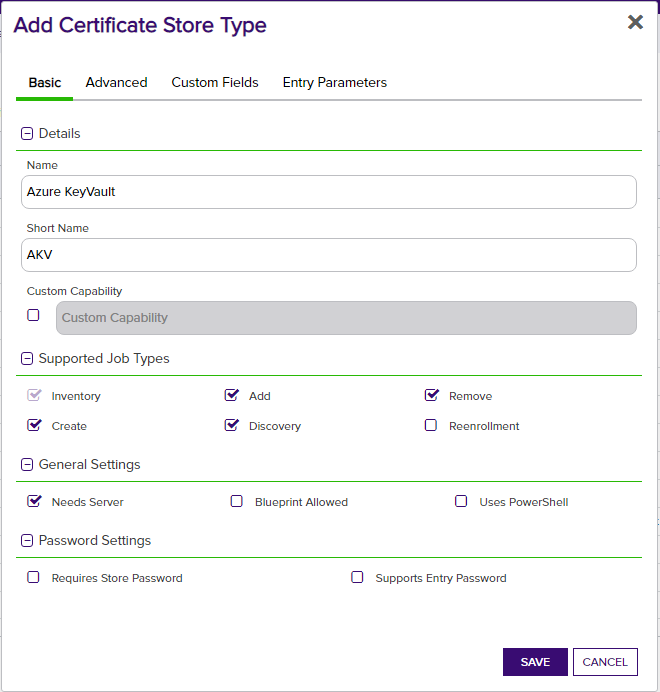
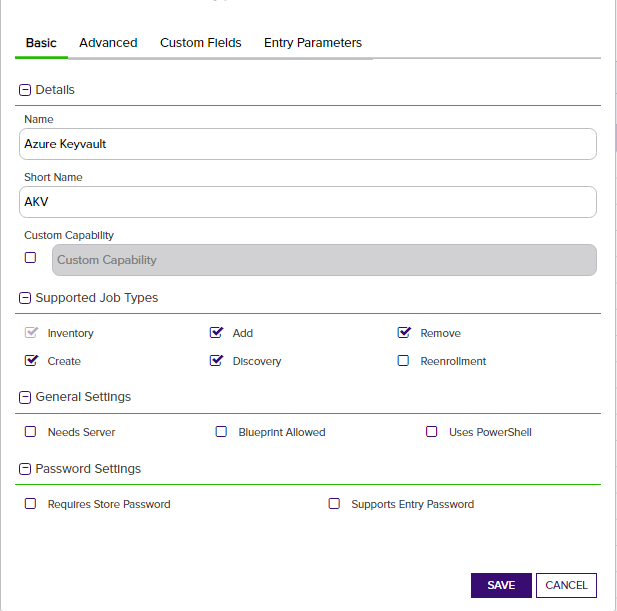
Updating documentation and cert store properties.

Changed region(s): [[0.0, 0.0, 1.0, 1.0], [0.6159, 0.5286, 0.8006, 0.6219], [0.3387, 0.5286, 0.4619, 0.6219]]

diff --git a/AzureKeyVault/AzureClient.cs b/AzureKeyVault/AzureClient.cs
@@ -57,15 +57,15 @@ namespace Keyfactor.Extensions.Orchestrator.AzureKeyVault
                 {
                     var credentialOptions = new DefaultAzureCredentialOptions();
 
-                    if (this.VaultProperties.UserAssignedManagedIdentity) // are they using a user assigned identity instead of a system assigned one (default)?
+                    if (!string.IsNullOrEmpty(this.VaultProperties.ClientId)) // are they using a user assigned identity instead of a system assigned one (default)?
                     {
-                        credentialOptions.ManagedIdentityClientId = VaultProperties.ApplicationId;
+                        credentialOptions.ManagedIdentityClientId = VaultProperties.ClientId;
                     }
                     cred = new DefaultAzureCredential(credentialOptions);
                 }
                 else
                 {
-                    cred = new ClientSecretCredential(VaultProperties.TenantId, VaultProperties.ApplicationId, VaultProperties.ClientSecret);
+                    cred = new ClientSecretCredential(VaultProperties.TenantId, VaultProperties.ClientId, VaultProperties.ClientSecret);
                 }
 
                 _certClient = new CertificateClient(new Uri(VaultProperties.VaultURL), credential: cred);
@@ -95,15 +95,15 @@ namespace Keyfactor.Extensions.Orchestrator.AzureKeyVault
                     var credentialOptions = new DefaultAzureCredentialOptions();
 
 
-                    if (!string.IsNullOrEmpty(this.VaultProperties.ApplicationId)) // they have selected a managed identity and provided a client ID, so it is a user assigned identity
+                    if (!string.IsNullOrEmpty(this.VaultProperties.ClientId)) // they have selected a managed identity and provided a client ID, so it is a user assigned identity
                     {
-                        credentialOptions.ManagedIdentityClientId = VaultProperties.ApplicationId;
+                        credentialOptions.ManagedIdentityClientId = VaultProperties.ClientId;
                     }
                     credential = new DefaultAzureCredential(credentialOptions);
                 }
                 else
                 {
-                    credential = new ClientSecretCredential(VaultProperties.TenantId, VaultProperties.ApplicationId, VaultProperties.ClientSecret);
+                    credential = new ClientSecretCredential(VaultProperties.TenantId, VaultProperties.ClientId, VaultProperties.ClientSecret);
                 }
 
                 _mgmtClient = new ArmClient(credential);
@@ -230,28 +230,28 @@ namespace Keyfactor.Extensions.Orchestrator.AzureKeyVault
 
         //    var vaults = KvManagementClient.Vaults;
 
-            var permissions = new Permissions
-            {
-                Certificates = new List<string>() {
-                    CertificatePermissions.All
-                }
-            };
-            var accessPolicyEntry = new AccessPolicyEntry(new Guid(VaultProperties.TenantId), VaultProperties.ObjectId, permissions);
-            var accessPolicyProperties = new VaultAccessPolicyProperties(new[] { accessPolicyEntry });
-            var accessPolicyParameters = new VaultAccessPolicyParameters(accessPolicyProperties);
-            try
-            {
-                await vaults.UpdateAccessPolicyAsync(VaultProperties.ResourceGroupName, VaultProperties.VaultName, AccessPolicyUpdateKind.Replace, accessPolicyParameters);
-                //force refresh of clients to get a new access token to refresh authority.
-                _mgmtClient = null;
-                _certClient = null;
-            }
-            catch (Exception ex)
-            {
-                logger.LogError("Unable to set access policy on Vault", ex);
-                throw;
-            }
-        }
+        //    var permissions = new Permissions
+        //    {
+        //        Certificates = new List<string>() {
+        //            CertificatePermissions.All
+        //        }
+        //    };
+        //    var accessPolicyEntry = new AccessPolicyEntry(new Guid(VaultProperties.TenantId), VaultProperties.ObjectId, permissions);
+        //    var accessPolicyProperties = new VaultAccessPolicyProperties(new[] { accessPolicyEntry });
+        //    var accessPolicyParameters = new VaultAccessPolicyParameters(accessPolicyProperties);
+        //    try
+        //    {
+        //        await vaults.UpdateAccessPolicyAsync(VaultProperties.ResourceGroupName, VaultProperties.VaultName, AccessPolicyUpdateKind.Replace, accessPolicyParameters);
+        //        //force refresh of clients to get a new access token to refresh authority.
+        //        _mgmtClient = null;
+        //        _certClient = null;
+        //    }
+        //    catch (Exception ex)
+        //    {
+        //        logger.LogError("Unable to set access policy on Vault", ex);
+        //        throw;
+        //    }
+        //}
     }
 }
 

diff --git a/AzureKeyVault/AkvProperties.cs b/AzureKeyVault/AkvProperties.cs
@@ -3,7 +3,7 @@
     public class AkvProperties
     {
         public string SubscriptionId { get; set; }
-        public string ApplicationId { get; set; } // (a.k.a. ClientId)
+        public string ClientId { get; set; } // (a.k.a. ClientId)
         public string ClientSecret { get; set; }
         public string TenantId { get; set; }
         public string ResourceGroupName { get; set; }
@@ -11,7 +11,13 @@
         public string StorePath { get; set; }
         public string VaultRegion { get; set; }
         public bool PremiumSKU { get; set; }
-        public bool UseAzureManagedIdentity { get; set; }
+        internal protected bool UseAzureManagedIdentity
+        {
+            get
+            {
+                return string.IsNullOrEmpty(ClientSecret); //if they don't provide a client secret, assume they are using Azure Managed Identities
+            }
+        }
 
         internal protected string VaultURL => $"https://{VaultName}.vault.azure.net/";
     }

diff --git a/AzureKeyVault/Jobs/AzureKeyVaultJob.cs b/AzureKeyVault/Jobs/AzureKeyVaultJob.cs
@@ -31,7 +31,7 @@ namespace Keyfactor.Extensions.Orchestrator.AzureKeyVault
                 VaultProperties.SubscriptionId = config.ClientMachine;
 
             VaultProperties.TenantId = config.ServerUsername.Split()[0]; //username should contain "<tenantId guid> <app id guid> <object Id>"            
-            VaultProperties.ApplicationId = config.ServerUsername.Split()[1];
+            VaultProperties.ClientId = config.ServerUsername.Split()[1];
             //VaultProperties.ObjectId = config.ServerUsername.Split()[2];
             VaultProperties.ClientSecret = config.ServerPassword;
 

diff --git a/readme_source.md b/readme_source.md
@@ -120,9 +120,9 @@ This is required to create an App Registration in Azure Active Directory.
 
      ![App registration object Id](/Images/objectId.png)
 
-1) Copy the _Application (client) ID_, _Object ID_.
+1) Copy the _Application (client) ID_
 
-1) Now we have a App registration and values for  _Directory (tenant) ID_, _Application (client) ID_ and _Object ID_.  These will be used by the integration for authentication to Azure.
+1) Now we have a App registration and values for  _Directory (tenant) ID_, _Application (client) ID_.  These will be used by the integration for authentication to Azure.
 
 #### Assign Permissions
 
@@ -224,7 +224,6 @@ Now we have our App registration created in Azure, and we have the following val
 
 - _TenantId_
 - _ApplicationId_
-- _ObjectId_
 - _ClientSecret_
 
 We will store these values securely in Keyfactor in subsequent steps.
@@ -238,10 +237,15 @@ The two types of managed identities available in Azure are _System_ assigned, an
 - System assigned managed identities are bound to the specific resource and not reassignable.  They are bound to the resource and share the same lifecycle.  
 - User assigned managed identities exist as a standalone entity, independent of a resource, and can therefore be assigned to multiple Azure resources.
 
+Read more about Azure Managed Identities [here](https://learn.microsoft.com/en-us/azure/active-directory/managed-identities-azure-resources/overview).
+
+Detailed steps for creating a managed identity and assigning permissions can be found [here](https://learn.microsoft.com/en-us/azure/active-directory/managed-identities-azure-resources/how-manage-user-assigned-managed-identities?pivots=identity-mi-methods-azp).
+
+Once the User Assigned managed identity has been created, you will need only to enter the Client Id into the Application Id field on the certificate store definition (the Client Secret can be left blank).
 
 #### Authentication via System Assigned Managed Identity
 
-In order to use a _System_ assigned managed identity, the setup steps are the same as for the user assigned managed identity, except that the ApplicationId can be left blank.
+In order to use a _System_ assigned managed identity, the setup steps are the same as for the user assigned managed identity, except that both the  ApplicationId field should also be left blank.
 
 ### Create the Store Type in Keyfactor
 
@@ -265,15 +269,32 @@ Now we can navigate to the Keyfactor platform and create the store type for Azur
 
 1) Navigate to the _Advanced_ tab and set the following values:
      - Store Path Type: **Freeform**
-     - Supports Custom Alias: **Required**
-     - Private Key Handling: **Required**
+     - Supports Custom Alias: **Optional**
+     - Private Key Handling: **Optional**
      - PFX Password Style: **Default**
 
     ![Cert Store Types Menu](/Images/store-type-fields-advanced.png)
 
 1) Navigate to the _Custom Fields_ tab and add the following fields
+     <!---
+     
      - Name: "**VaultName**", Display Name: "**Vault Name**", Required: **true** (checked)
      - Name: "**ResourceGroupName**", Display Name: "**Resource Group Name**", Required: **true** (checked)
+     
+     -->
+
+     | Name | Display Name | Type | Required |
+     | ---- | ------------ | ---- | -------- |
+     | VaultName | Vault Name | String | true |
+     | ResourceGroupName | Resource Group Name | String | true |
+     | SkuType[^sku] | SKU Type | MultipleChoice | true |
+     | TenantId | Tenant ID | String | true |
+     | ClientId | Client ID | String | false |
+     | ClientSecret | Client Secret | Secret | false |
+
+     [^sku]: The SkuType determines the service tier when creating a new instance of Azure KeyVault via the platform.  Valid values include "premium" and "standard".
+        If either option should be available when creating a new KeyVault from the Command platform via creating a new certificate store, then the value to enter for the multiple choice options should be "standard,premium".
+        If your organization requires that one or the other option should always be used, you can limit the options to a single value ("premium" or "standard").
 
 ### Install the Extension on the Orchestrator
 

diff --git a/AzureKeyVault/CHANGELOG.md b/AzureKeyVault/CHANGELOG.md
@@ -1,0 +1,9 @@
+
+
+- 2.0
+  - Added support for Azure Managed Identity authentication
+  - Updated Azure client libraries
+  - Removed ObjectId parameter from StoreType definition
+  - Added SkuType and VaultRegion parameters to support vault creation from the platform.
+
+- 1.05
